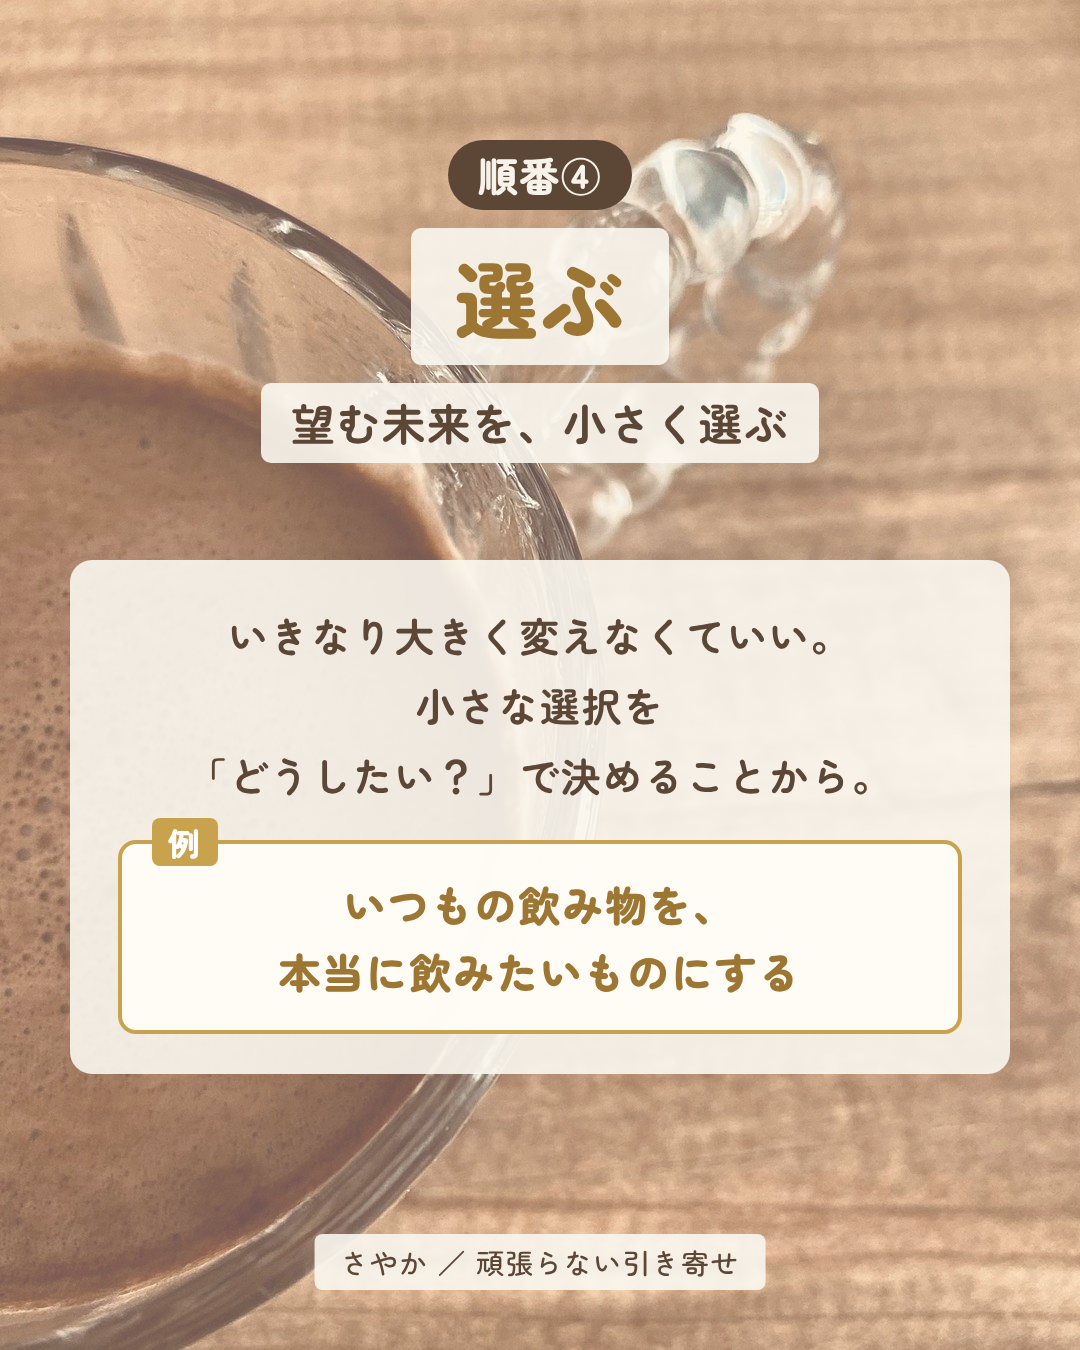
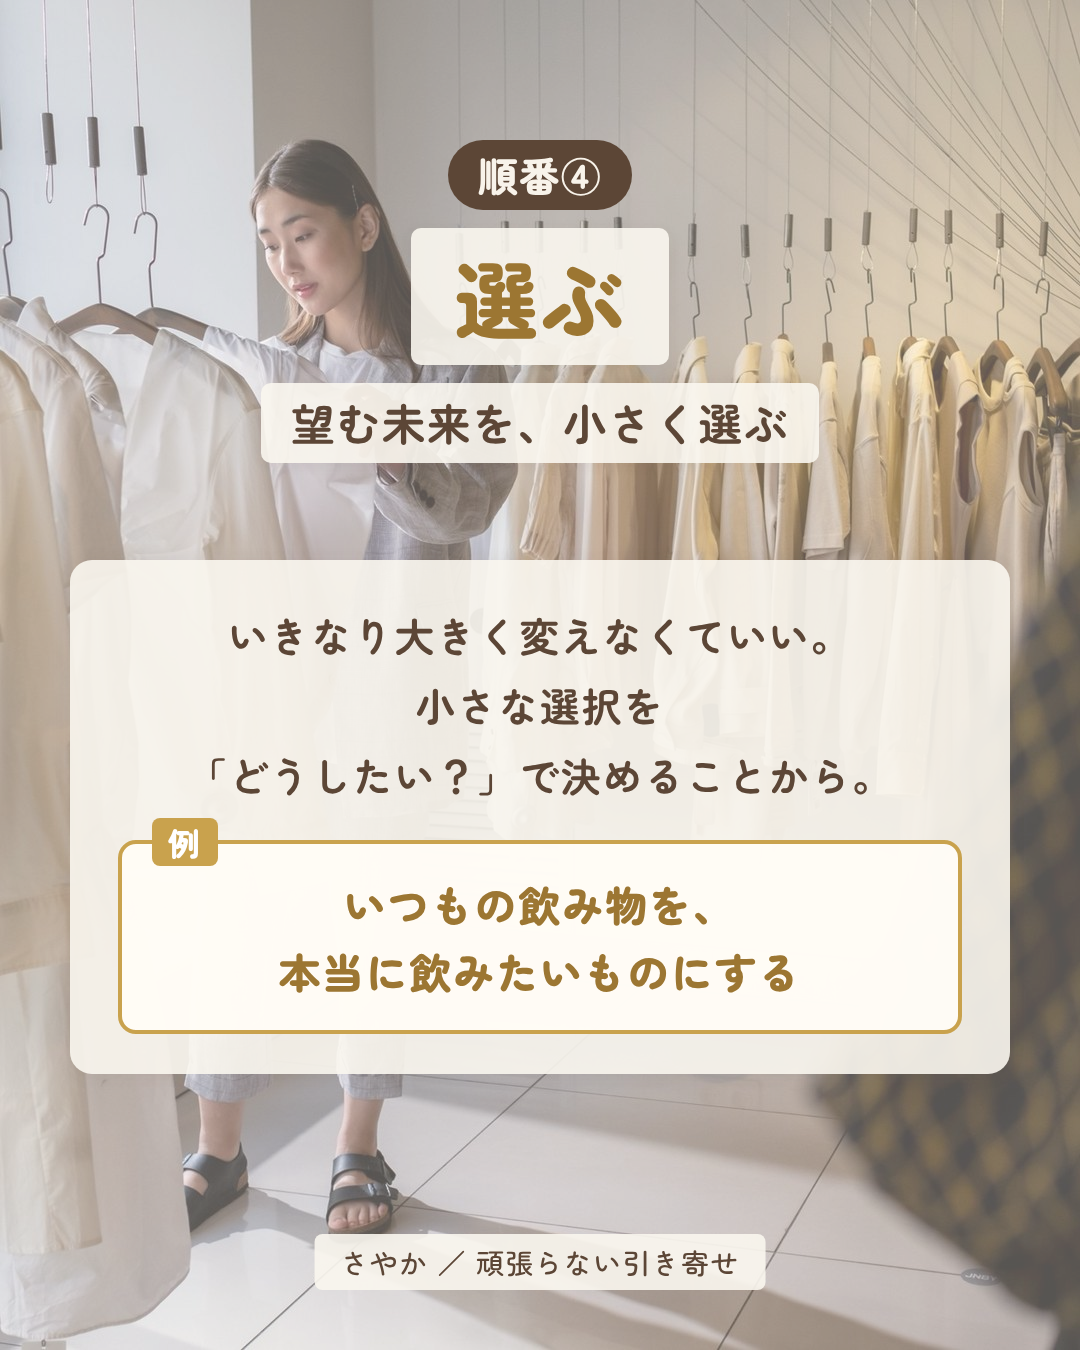
Swap fourth carousel backgrounds to the user's new photos
Claude-Session: https://claude.ai/code/session_01YUXq2WjFGxvpb1f5f2asyh

diff --git a/hasegawa_instagram_post04_omoikomi.md b/hasegawa_instagram_post04_omoikomi.md
@@ -151,7 +151,7 @@
 
 | P | 合う写真のイメージ |
 |---|---|
-**今回の画像（`carousel/hasegawa_post04/png/`）**：これまでに本人が送った写真から選んだ（1P＝窓辺のコスモス、2P＝カフェの椅子、3P＝窓辺の女性（白黒）、4P＝光と影のノート、5P＝紅葉の並木道、6P＝夕日のジャンプ、7P＝ココアのマグ、8P＝菜の花）。3Pの例と2Pの体験の一文は原稿のまま（体験は入れていない）。新しい写真が届いたら `photo/` を差し替えて `npm run render`。
+**今回の画像（`carousel/hasegawa_post04/png/`）**：本人が4本目用に送った写真を使用（1P＝レースのカーテンと窓、2P＝ノートに書きながら電卓をたたく手元（右端のお札は切り取り）、3P＝アーチ窓の光、4P＝ピンクの電卓と硬貨とノート、5P＝暗めの玉ボケ、6P＝夕日のジャンプ（1本目と同じ）、7P＝服を選ぶ女性、8P＝あたたかい玉ボケ）。ブランドのロゴがはっきり写った買い物袋の写真は使わない。3Pの例と2Pの体験の一文は原稿のまま。
 
 | 1P（表紙） | 財布・お札は避け、やわらかい光の机や花（お金を直接写すと身構えられやすい） |
 | 2P | 家計簿やレシートの手元、少し沈んだ色 |
